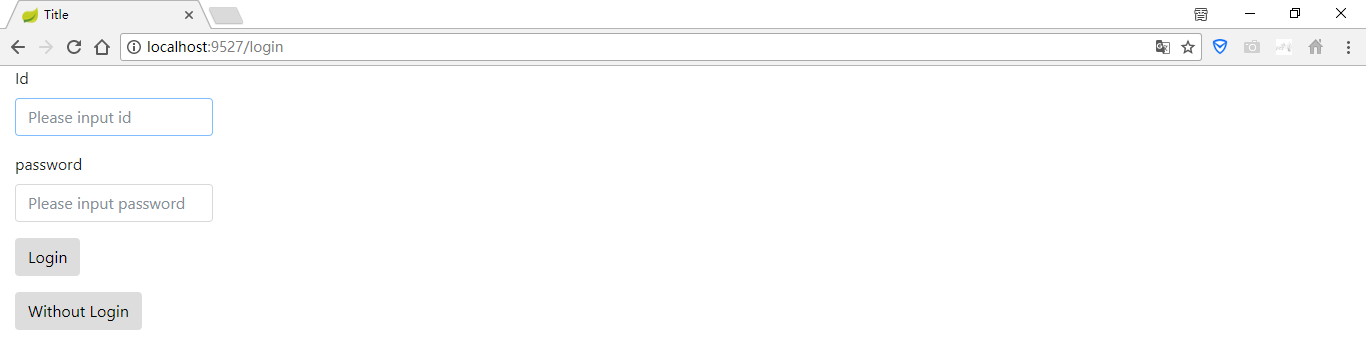
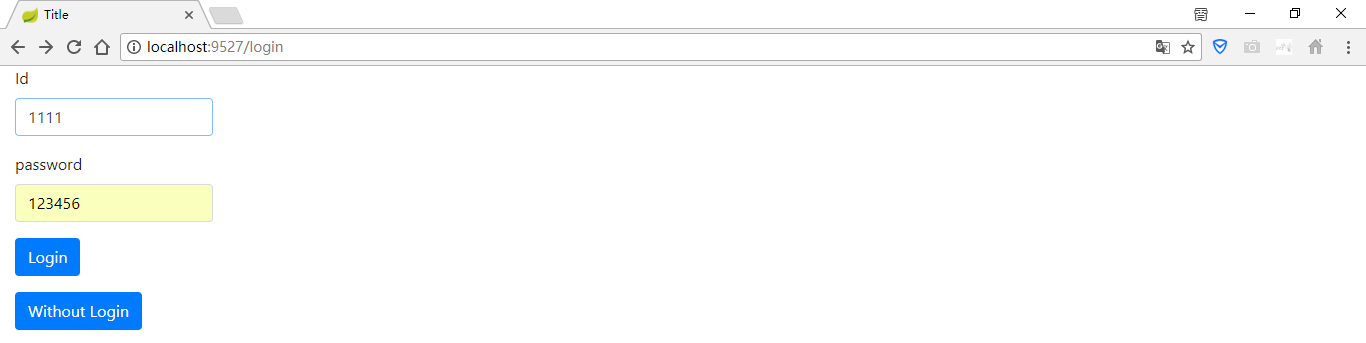
change btn theme

diff --git a/src/main/resources/templates/index.html b/src/main/resources/templates/index.html
@@ -9,9 +9,9 @@
 </head>
 <body>
 <!--<h1 th:text="${hello}"></h1>-->
-<button id="btnadd" type="submit" class="btn btn-default" th:onclick="'javascript:addUser();'">Add</button>
-<button id="btnlogin" type="submit" class="btn btn-default" onclick="javascrtpt:window.location.href='/login'">Login</button>
-<button id="btnlogout" type="submit" class="btn btn-default" onclick="javascrtpt:window.location.href='/logout'">Logout</button>
+<button id="btnadd" type="submit" class="btn btn-primary" th:onclick="'javascript:addUser();'">Add</button>
+<button id="btnlogin" type="submit" class="btn btn-primary" onclick="javascrtpt:window.location.href='/login'">Login</button>
+<button id="btnlogout" type="submit" class="btn btn-primary" onclick="javascrtpt:window.location.href='/logout'">Logout</button>
 <table class="table table-striped">
     <thead>
         <tr>
@@ -32,8 +32,8 @@
             <!--th:onclick="'alert(\'' + ${user.id} + '\');'"-->
             <!--th:onclick="${'javascript:deleteUser(' + user.id + ');'}"-->
             <!--th:onclick="'alert(\'' + ${user.id} + '\');'"-->
-            <td><button th:id="'btne' + ${user.id}" type="submit" class="btn btn-default" th:onclick="'javascript:updateUser(' + ${user.id} + ');'">Edit</button></td>
-            <td><button th:id="'btnd' + ${user.id}" type="submit" class="btn btn-default" th:onclick="'javascript:deleteUser(' + ${user.id} + ');'">Delete</button></td>
+            <td><button th:id="'btne' + ${user.id}" type="submit" class="btn btn-primary" th:onclick="'javascript:updateUser(' + ${user.id} + ');'">Edit</button></td>
+            <td><button th:id="'btnd' + ${user.id}" type="submit" class="btn btn-primary" th:onclick="'javascript:deleteUser(' + ${user.id} + ');'">Delete</button></td>
         </tr>
     </tbody>
 </table>

diff --git a/src/main/resources/templates/login.html b/src/main/resources/templates/login.html
@@ -33,12 +33,12 @@
     <!--</div>-->
     <div class="form-group">
         <div class="col-sm-offset-2 col-sm-10">
-            <button type="submit" class="btn btn-default">Login</button>
+            <button type="submit" class="btn btn-primary">Login</button>
         </div>
     </div>
 </form>
 <div class="col-sm-offset-2 col-sm-10">
-    <button type="submit" class="btn btn-default" onclick="window.location.href='/nologin'">Without Login</button>
+    <button type="submit" class="btn btn-primary" onclick="window.location.href='/nologin'">Without Login</button>
 </div>
 <script>
     function checkLoginId() {

diff --git a/src/main/resources/templates/nologin.html b/src/main/resources/templates/nologin.html
@@ -9,7 +9,7 @@
 </head>
 <body>
 <!--<h1 th:text="${hello}"></h1>-->
-<button id="btnlogin" type="submit" class="btn btn-default" onclick="javascrtpt:window.location.href='/login'">Login</button>
+<button id="btnlogin" type="submit" class="btn btn-primary" onclick="javascrtpt:window.location.href='/login'">Login</button>
 <table class="table table-striped">
     <thead>
         <tr>

diff --git a/src/main/resources/templates/edit.html b/src/main/resources/templates/edit.html
@@ -40,7 +40,7 @@
     <!--</div>-->
     <div class="form-group">
         <div class="col-sm-offset-2 col-sm-10">
-            <button type="submit" class="btn btn-default">Update</button>
+            <button type="submit" class="btn btn-primary">Update</button>
         </div>
     </div>
 </form>
